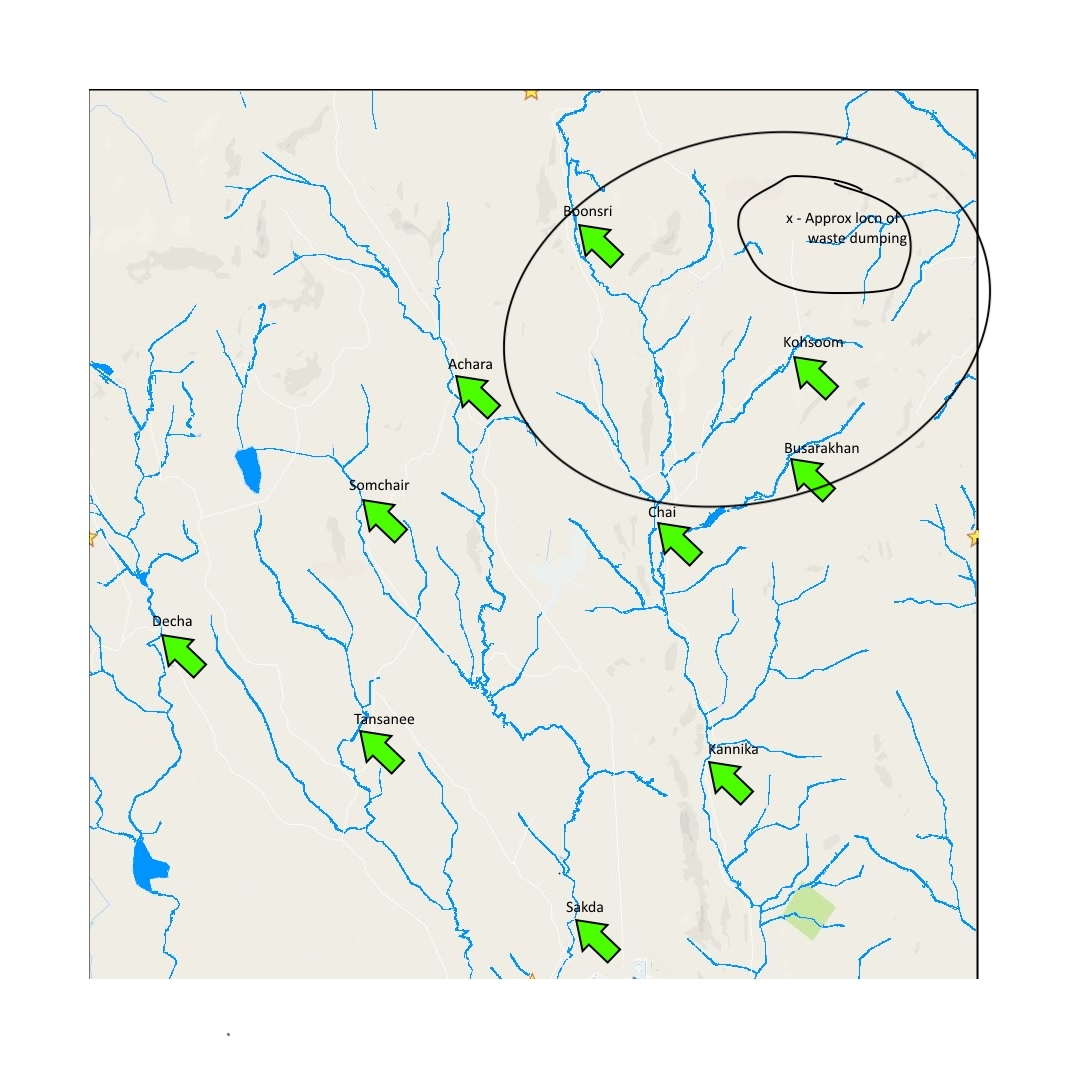
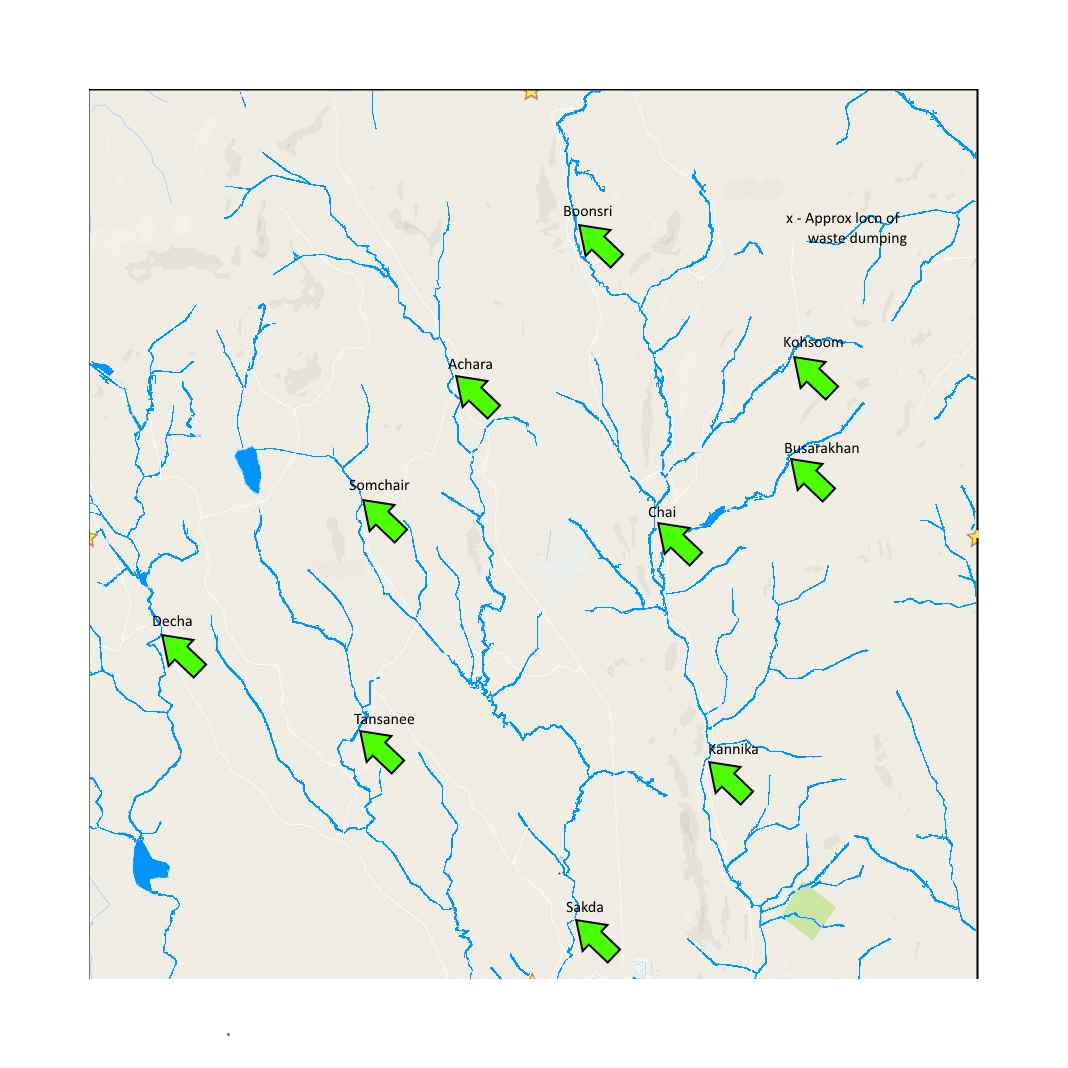
Fix click on cell bug

diff --git a/js/discreteheatmap.js b/js/discreteheatmap.js
@@ -1,4 +1,5 @@
 const linePlotDiv = "linePlotDiv";
+const mapDiv = "mapDiv";
 let plotData = {
     measures: [],
     locations: [],
@@ -68,6 +69,8 @@ let discreteHeatMapPlotter = {
         this.generateGroupLabels();
         this.generateArcs();
         d3.select("#"+linePlotDiv).style("left", (graphWidth + measureLabelWidth + 10)+ "px").style("top", (this.svg.node().getBoundingClientRect().y + plotLayout.timeLabelHeight)+"px").style("width", "600px").style("height", "300px");
+        d3.select("#"+mapDiv).style("left", (graphWidth + measureLabelWidth + 10)+ "px").style("top", (this.svg.node().getBoundingClientRect().y + plotLayout.timeLabelHeight + 320)+"px").style("width", "600px").style("height", "600px");
+
 
         function calculateColors() {
             plotData.measures.forEach(measure => {
@@ -425,10 +428,18 @@ function createElementFromHTML(htmlString) {
     return div.firstChild;
 }
 function addClearButton(){
-    let htmlString = '<a id="clearBtn" rel="tooltip" class="modebar-btn" data-title="Clear" data-toggle="false" data-gravity="n"><svg xmlns="http://www.w3.org/2000/svg" width="18" height="18" viewBox="0 0 18 18"><path d="M6 19c0 1.1.9 2 2 2h8c1.1 0 2-.9 2-2V7H6v12zm2.46-7.12l1.41-1.41L12 12.59l2.12-2.12 1.41 1.41L13.41 14l2.12 2.12-1.41 1.41L12 15.41l-2.12 2.12-1.41-1.41L10.59 14l-2.13-2.12zM15.5 4l-1-1h-5l-1 1H5v2h14V4z" transform="scale(0.8, 0.8)"/></svg></a>';
+    let htmlString = '<a id="clearBtn" rel="tooltip" class="modebar-btn" data-title="Clear" data-toggle="false" data-gravity="n"><svg width="20" height="20" xmlns="http://www.w3.org/2000/svg">\n' +
+        ' <g>\n' +
+        '  <title>Layer 1</title>\n' +
+        '  <path stroke-width="0" id="svg_2" d="m3.776302,16.901317c0,1.1 0.9,2 2,2l8,0c1.1,0 2,-0.9 2,-2l0,-12l-12,0l0,12zm2.46,-7.12l1.41,-1.41l2.13,2.12l2.12,-2.12l1.41,1.41l-2.12,2.12l2.12,2.12l-1.41,1.41l-2.12,-2.12l-2.12,2.12l-1.41,-1.41l2.12,-2.12l-2.13,-2.12zm7.04,-7.88l-1,-1l-5,0l-1,1l-3.5,0l0,2l14,0l0,-2l-3.5,0z"/>\n' +
+        ' </g>\n' +
+        '</svg></a>';
     let theElm = createElementFromHTML(htmlString);
     theElm.addEventListener('click', clearChart, false);
-    d3.select('[data-title="Download plot as a png"]').node().parentNode.insertBefore(theElm,d3.select('[data-title="Download plot as a png"]').node());
+    let downloadBtn = d3.select('[data-title="Download plot as a png"]');
+    if(!downloadBtn.empty()){
+        downloadBtn.node().parentNode.insertBefore(theElm,d3.select('[data-title="Download plot as a png"]').node());
+    }
 }
 function clearChart(){
     Plotly.purge(linePlotDiv);

diff --git a/lib/generalutils.js b/lib/generalutils.js
@@ -46,26 +46,27 @@ Array.prototype.mult = function (b) {
 };
 let statistics = {
     normalBound: function (yValues) {
-        if (yValues.length < 4)
-            return [d3.min(yValues), d3.max(yValues)];
-
-        let values, q1, q3, iqr, maxValue, minValue;
-
-        values = yValues.slice().sort((a, b) => a - b);
-
-        if ((values.length / 4) % 1 === 0) {//find quartiles
-            q1 = 1 / 2 * (values[(values.length / 4)] + values[(values.length / 4) + 1]);
-            q3 = 1 / 2 * (values[(values.length * (3 / 4))] + values[(values.length * (3 / 4)) + 1]);
-        } else {
-            q1 = values[Math.floor(values.length / 4 + 1)];
-            q3 = values[Math.ceil(values.length * (3 / 4) + 1)];
-        }
-
-        iqr = q3 - q1;
-        maxValue = q3 + iqr * 1.5;
-        minValue = q1 - iqr * 1.5;
-
-        return [minValue, maxValue];
+        // if (yValues.length < 4)
+        //     return [d3.min(yValues), d3.max(yValues)];
+        //
+        // let values, q1, q3, iqr, maxValue, minValue;
+        //
+        // values = yValues.slice().sort((a, b) => a - b);
+        //
+        // if ((values.length / 4) % 1 === 0) {//find quartiles
+        //     q1 = 1 / 2 * (values[(values.length / 4)] + values[(values.length / 4) + 1]);
+        //     q3 = 1 / 2 * (values[(values.length * (3 / 4))] + values[(values.length * (3 / 4)) + 1]);
+        // } else {
+        //     q1 = values[Math.floor(values.length / 4 + 1)];
+        //     q3 = values[Math.ceil(values.length * (3 / 4) + 1)];
+        // }
+        //
+        // iqr = q3 - q1;
+        // maxValue = q3 + iqr * 2.5;
+        // minValue = q1 - iqr * 2.5;
+        //
+        // return [minValue, maxValue];
+        return d3.extent(yValues);
     },
     pearsonCorcoef: function (u, v) {
         var us = standardise(u), vs = standardise(v), n = u.length;

diff --git a/js/main.js b/js/main.js
@@ -1,9 +1,10 @@
 function loadData() {
-    myDataProcessor.readData("mc2/Boonsong Lekagul waterways readings.csv", dataHandler);
+    myDataProcessor.readData("mc2/Boonsong Lekagul waterways readings 2.csv", dataHandler);
 }
 $(document).ready(() => {
     loadData(dataHandler);
-    d3.select("#linePlotDiv").call(d3.drag().on("start",linePlotDragStarted).on("drag", linePlotDragged).on("end", linePlotDragEnded));
+    d3.select("#"+linePlotDiv).call(d3.drag().on("start",boxDragStarted).on("drag", boxDragged).on("end", boxDragEnded));
+    d3.select("#"+mapDiv).call(d3.drag().on("start",boxDragStarted).on("drag", boxDragged).on("end", boxDragEnded));
 });
 
 function dataHandler() {
@@ -137,13 +138,13 @@ function toggleOutlier(){
 let xOffset = 0;
 let yOffset = 0;
 
-function linePlotDragStarted() {
+function boxDragStarted() {
     let obj = d3.select(this);
     xOffset = d3.event.x - obj.node().getBoundingClientRect().x;
     yOffset = d3.event.y - obj.node().getBoundingClientRect().y;
 }
 
-function linePlotDragged() {
+function boxDragged() {
     let obj = d3.select(this);
     let xCoord = d3.event.x - xOffset;
     let yCoord = d3.event.y - yOffset;
@@ -151,5 +152,5 @@ function linePlotDragged() {
     obj.style("top", yCoord + "px");
 }
 
-function linePlotDragEnded() {
+function boxDragEnded() {
 }

diff --git a/index.html b/index.html
@@ -13,7 +13,6 @@
     <script src="lib/generalutils.js"></script>
     <style>
         @import "css/discreteheatmap.css";
-        @import "css/linegraph.css";
     </style>
     <script src="js/discreteheatmap.js"></script>
     <link rel="stylesheet" href="css/main.css"/>
@@ -47,8 +46,9 @@
     <svg id="mapHeaderSVG"></svg>
 </div>
 <div id="discreteHeatMapDiv"></div>
-
-<div id="linePlotDiv">
+<div id="linePlotDiv" class="floatingBox"></div>
+<div id="mapDiv" class="floatingBox">
+    <img src="mc2/Waterways%20Final.jpg" width="100%" height="100%"/>
 </div>
 </body>
 </html>

diff --git a/css/discreteheatmap.css b/css/discreteheatmap.css
@@ -46,3 +46,21 @@ div.tooltip {
     padding: 0px;
     z-index: 100;
 }
+.floatingBox {
+    position: fixed;
+    border: 1px solid black;
+    border: 1px solid rgba(0,0,0, 1);
+    background-color: rgba(255,255,255, 1);
+    border-radius: 6px;
+    box-shadow: 5px 5px 5px #444;
+    z-index: 10;
+    top: 10px;
+    cursor: move;
+    padding: 5px;
+}
+#clockPetals{
+    position: absolute;
+    top: 5px;
+    left: 5px;
+    z-index: 11;
+}
